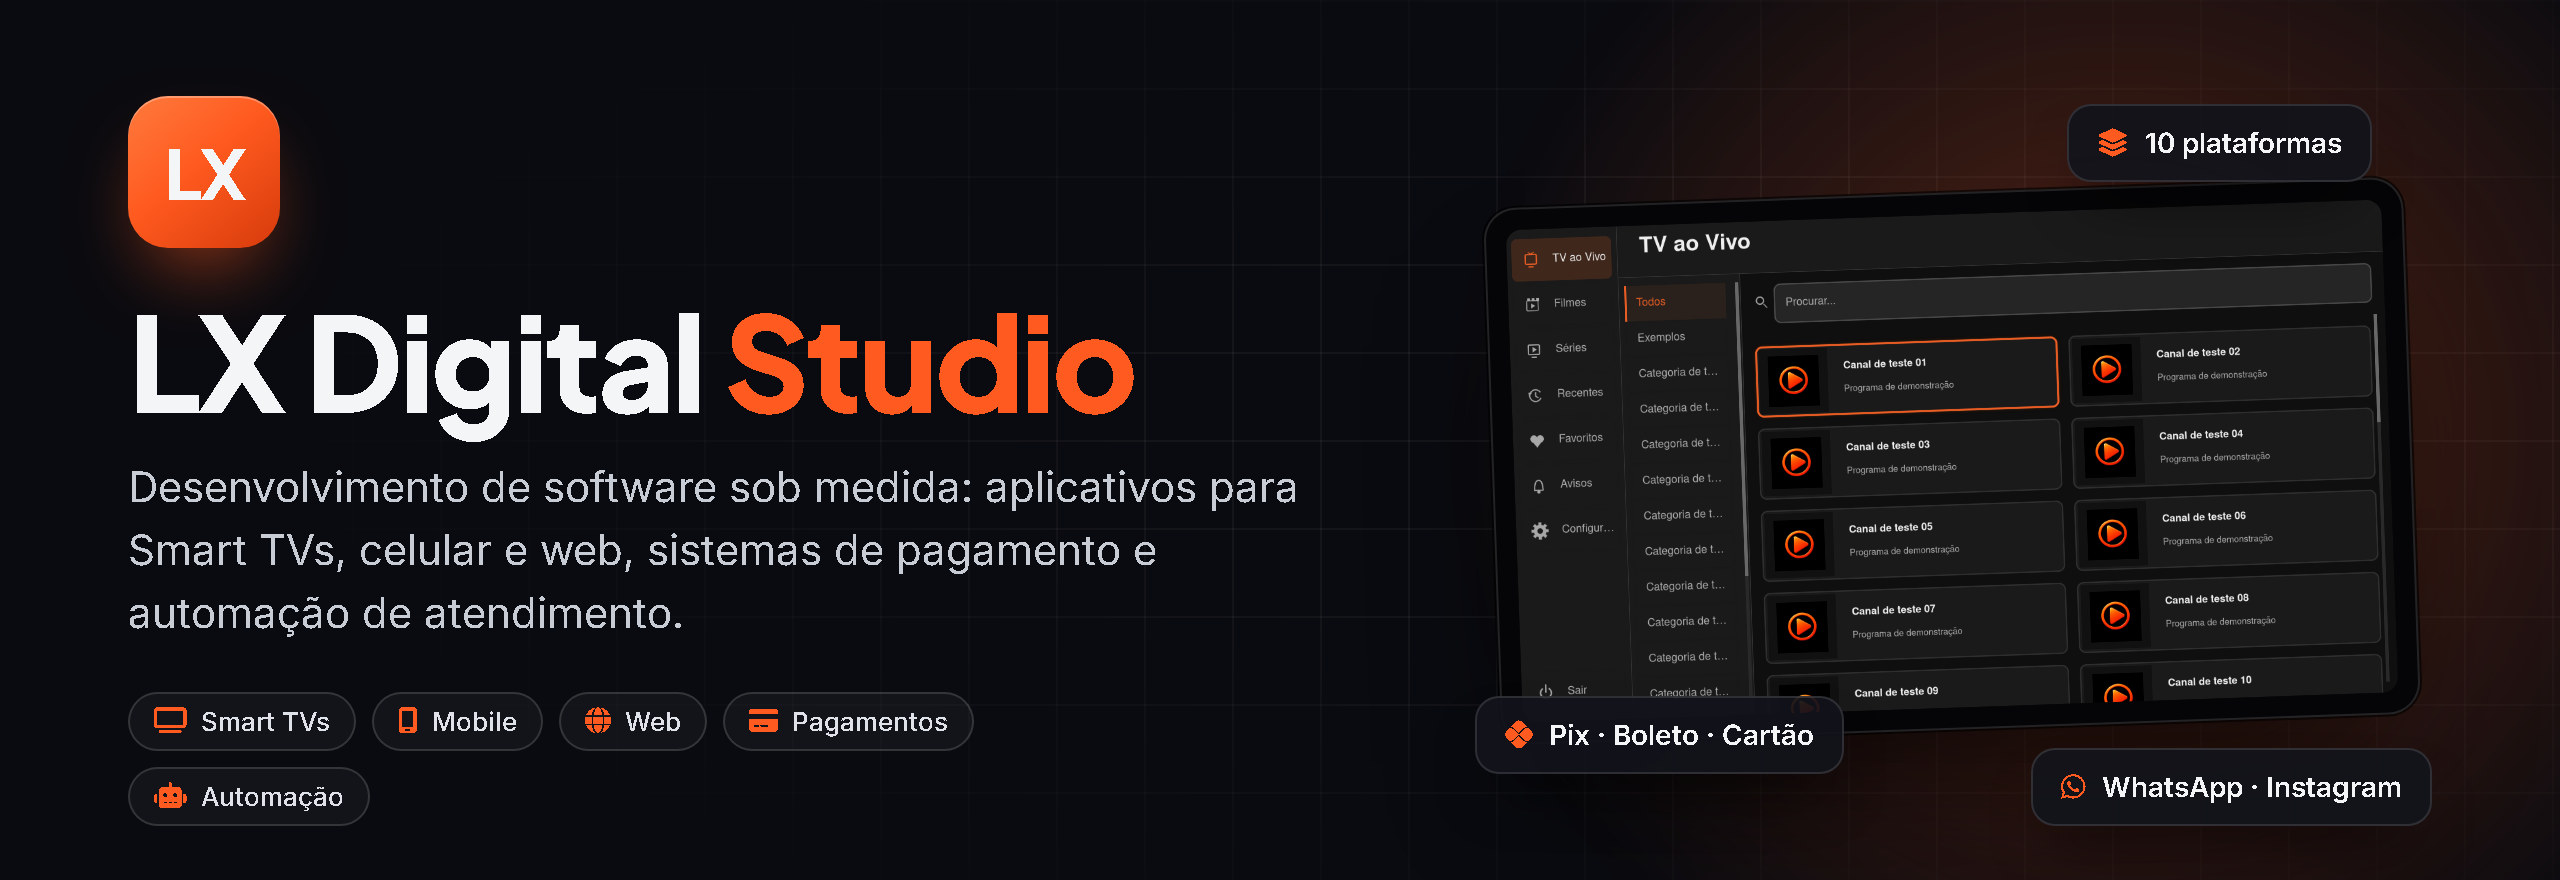
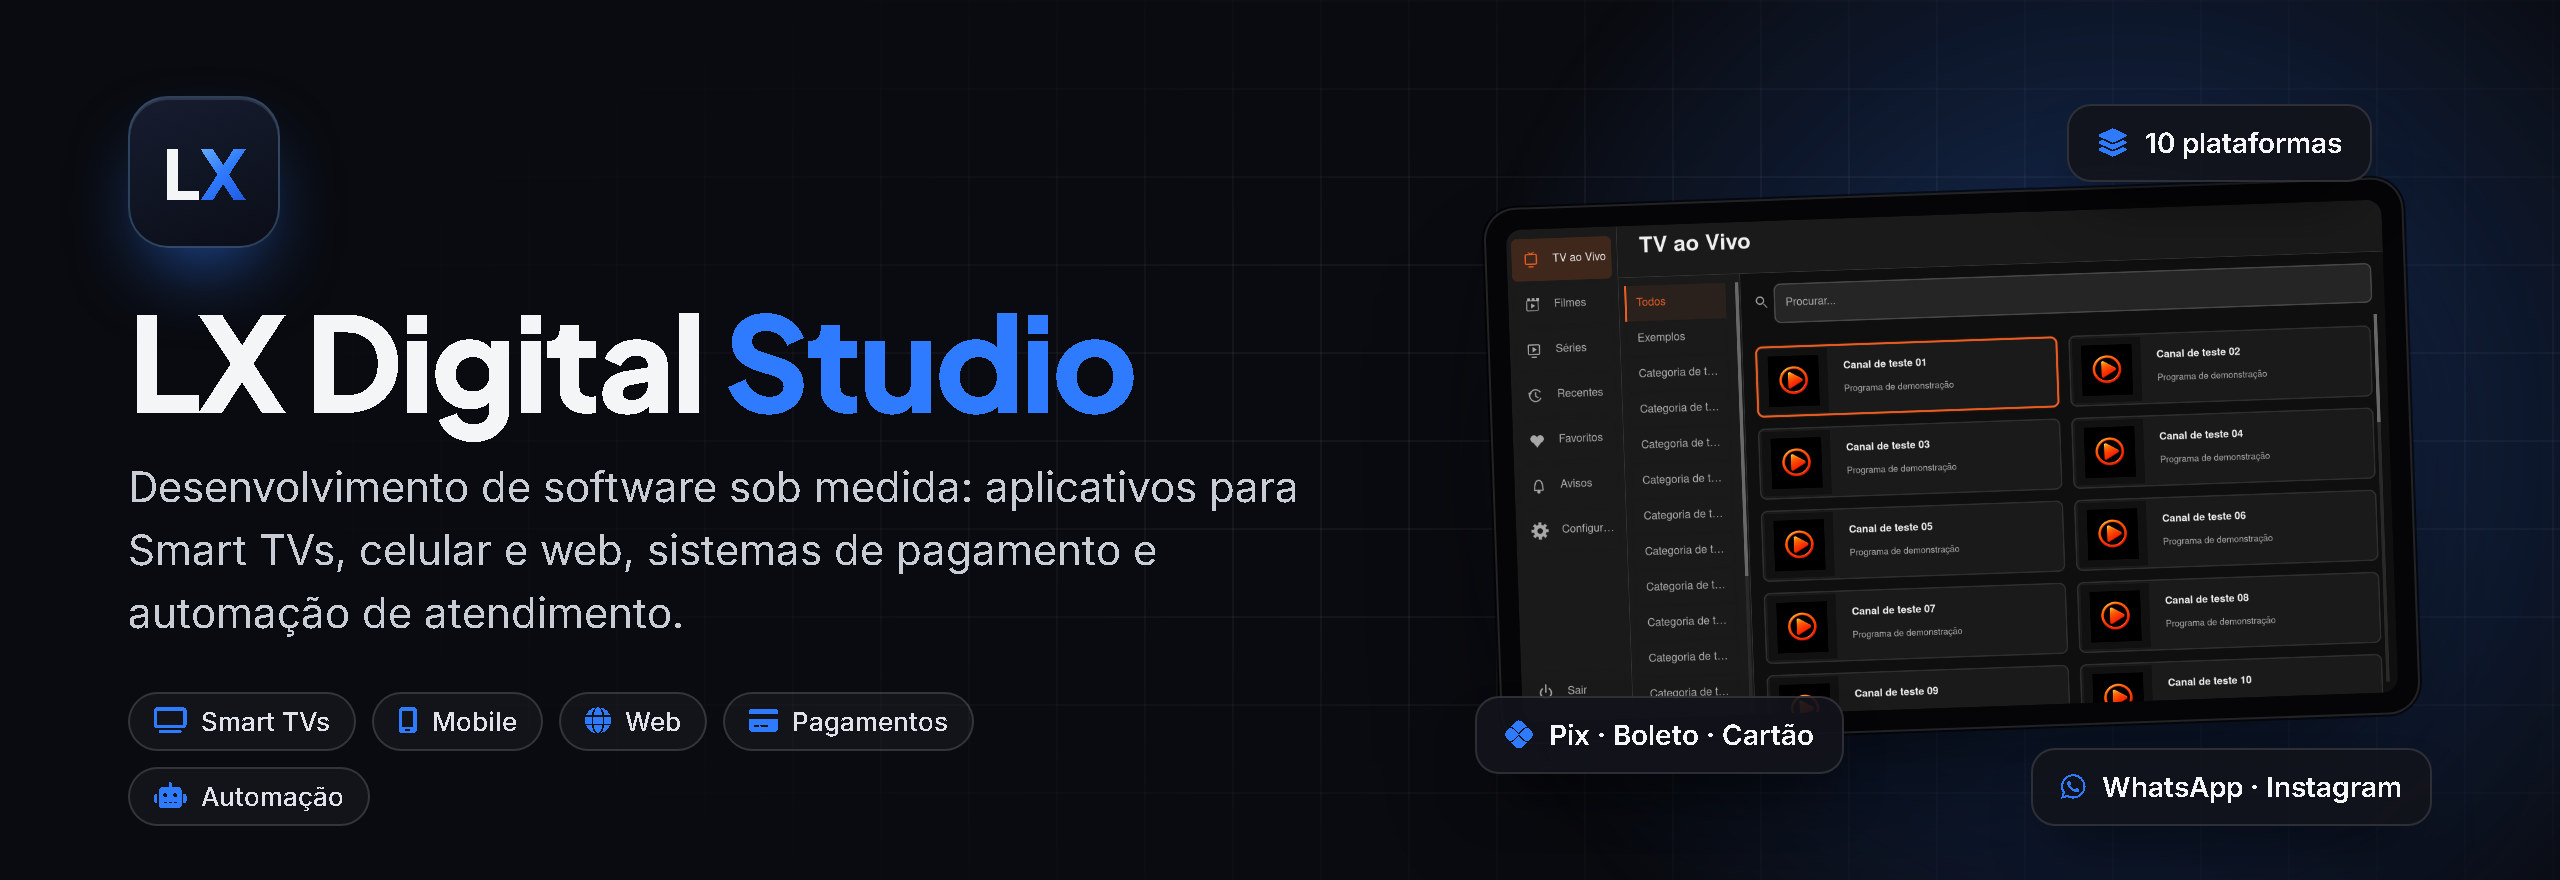
Troca o laranja da marca LX Digital Studio pelo azul da empresa

diff --git a/README.md b/README.md
@@ -7,7 +7,7 @@
 </p>
 
 <p align="center">
-  <a href="mailto:lxdigitalstudio7@gmail.com"><img src="https://img.shields.io/badge/E--mail-lxdigitalstudio7%40gmail.com-ff5a1f?style=for-the-badge&logo=gmail&logoColor=white" alt="E-mail: lxdigitalstudio7@gmail.com"></a>
+  <a href="mailto:lxdigitalstudio7@gmail.com"><img src="https://img.shields.io/badge/E--mail-lxdigitalstudio7%40gmail.com-2f7bff?style=for-the-badge&logo=gmail&logoColor=white" alt="E-mail: lxdigitalstudio7@gmail.com"></a>
 </p>
 
 ---
